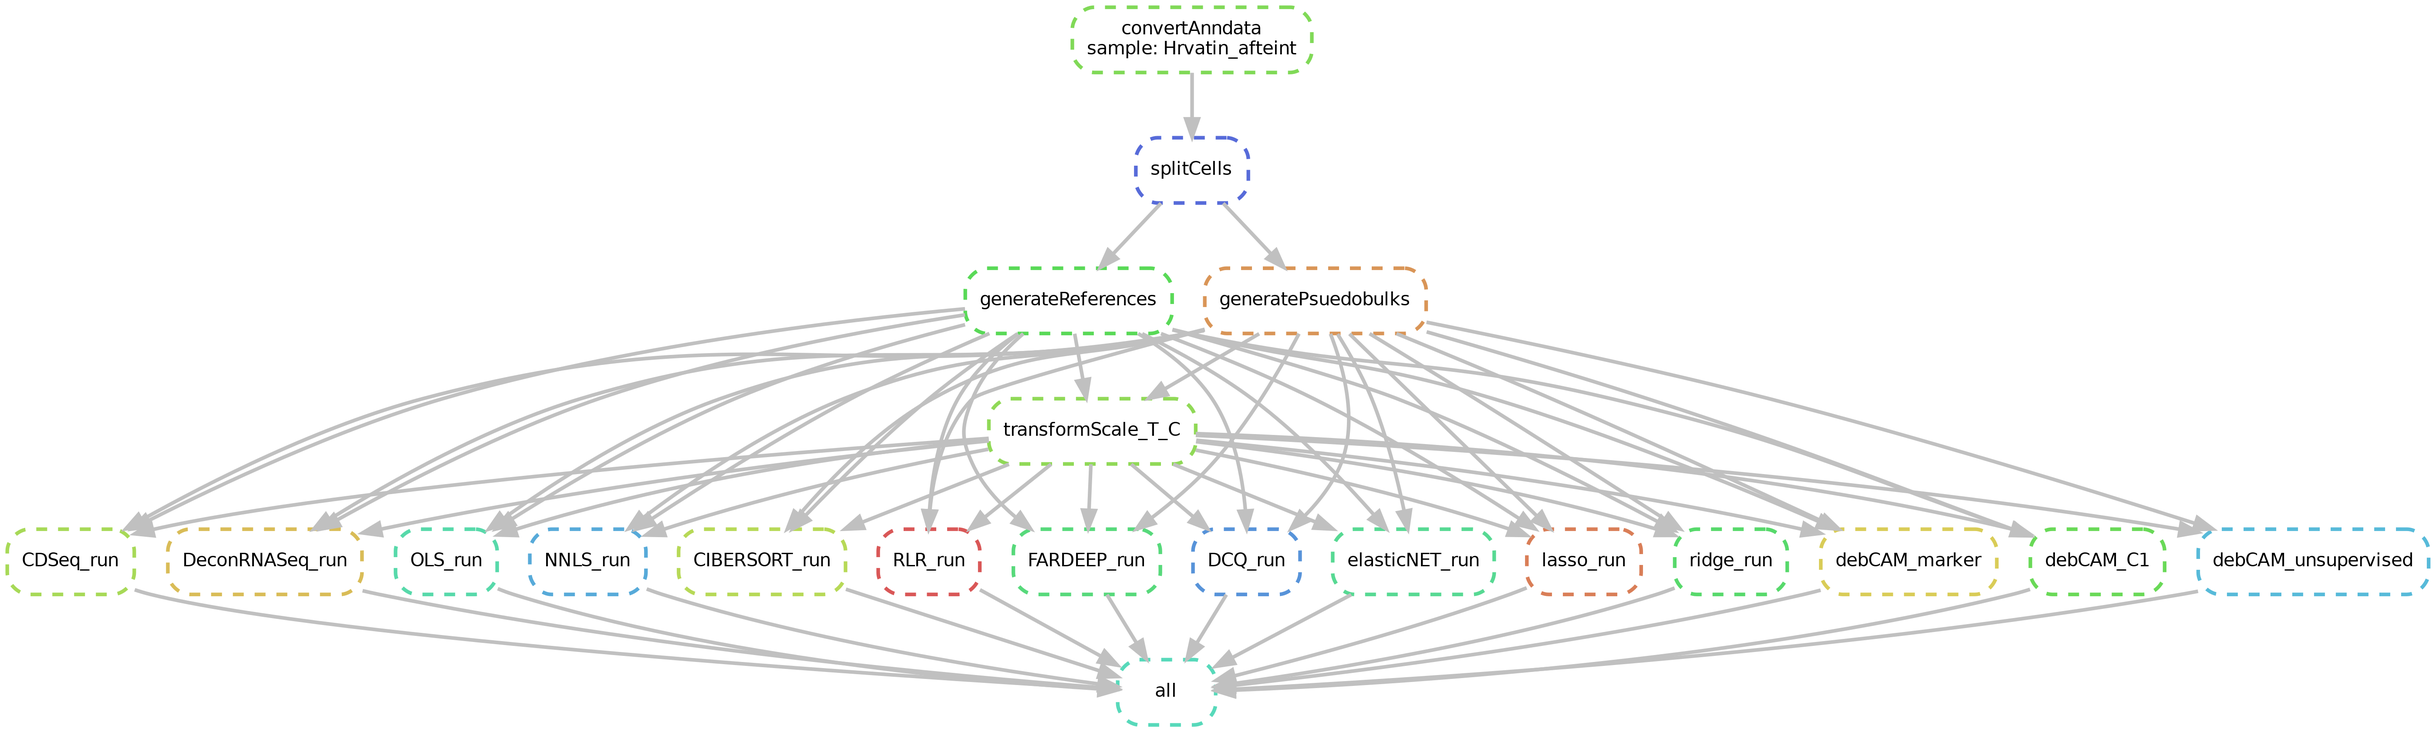
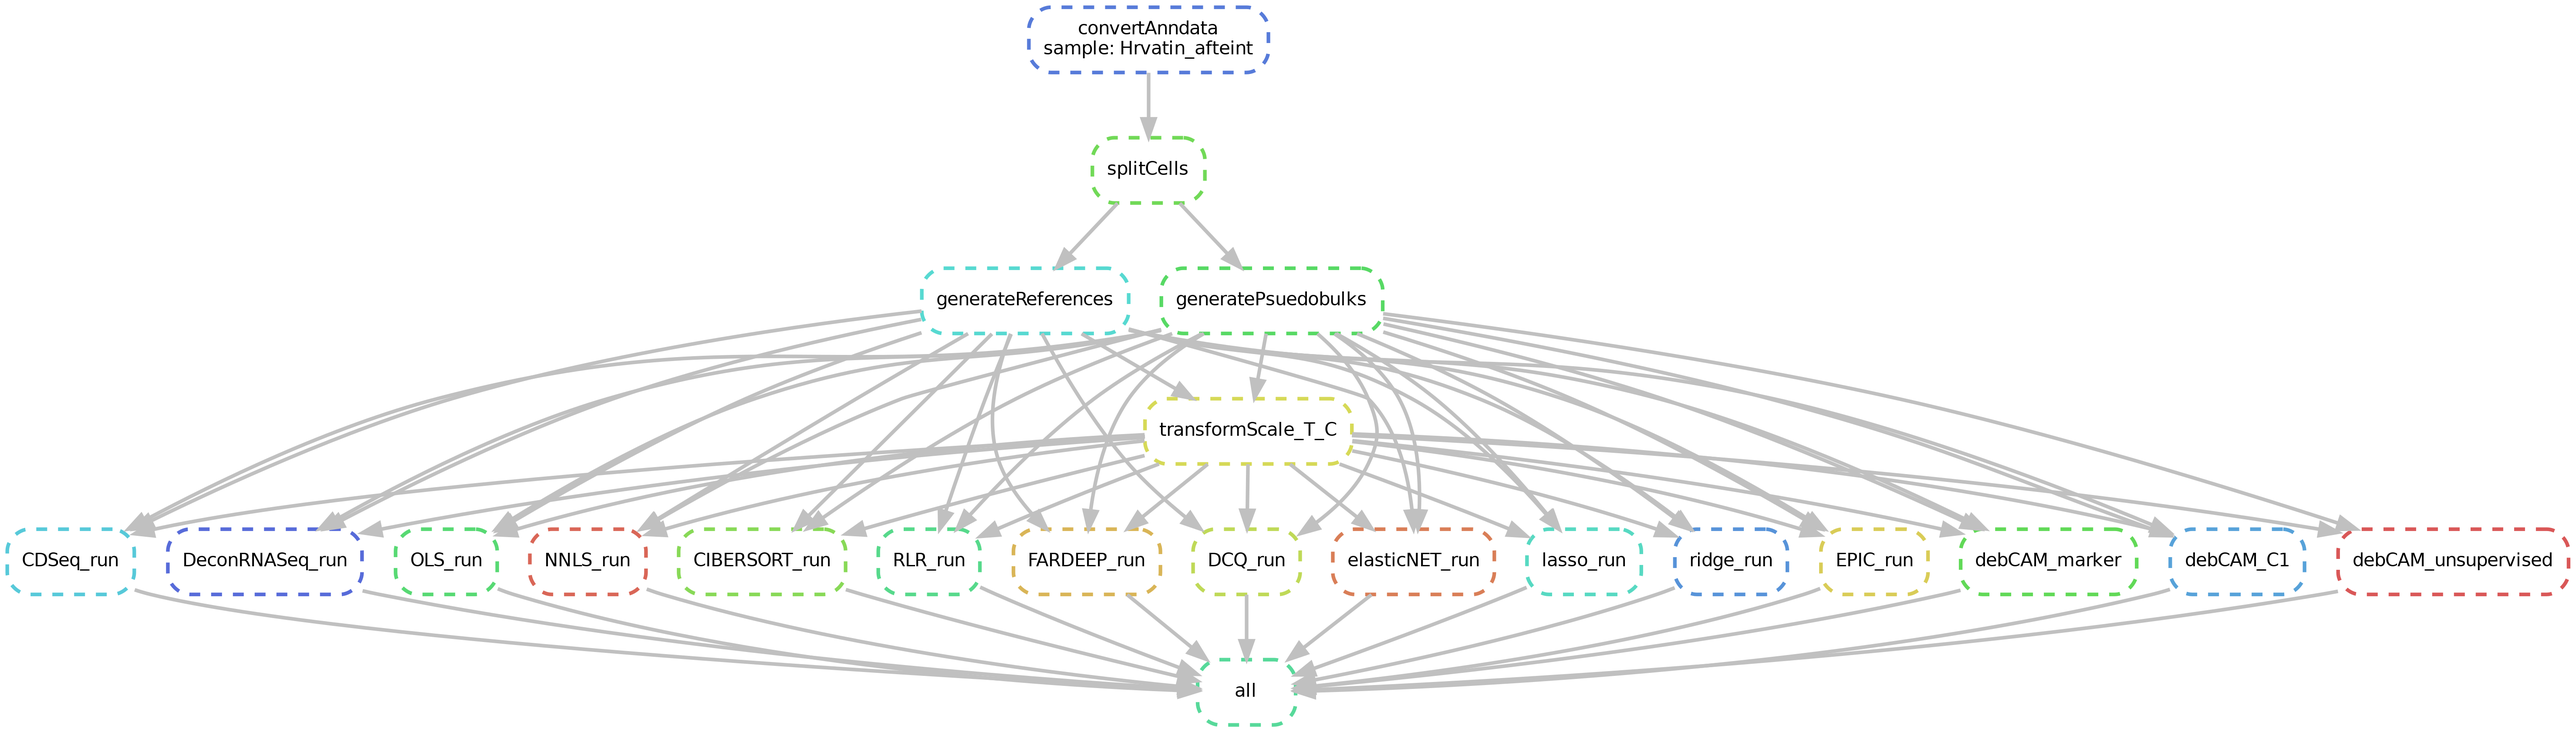
New method: implemented EPIC

diff --git a/README.md b/README.md
@@ -40,7 +40,7 @@
 	"elasticNet" - DONE
 	"lasso" - DONE
 	"ridge" - DONE
-	"EPIC"
+	"EPIC" - DONE
 	"DSA"
 	"ssKL"
 	"ssFrobenius"
